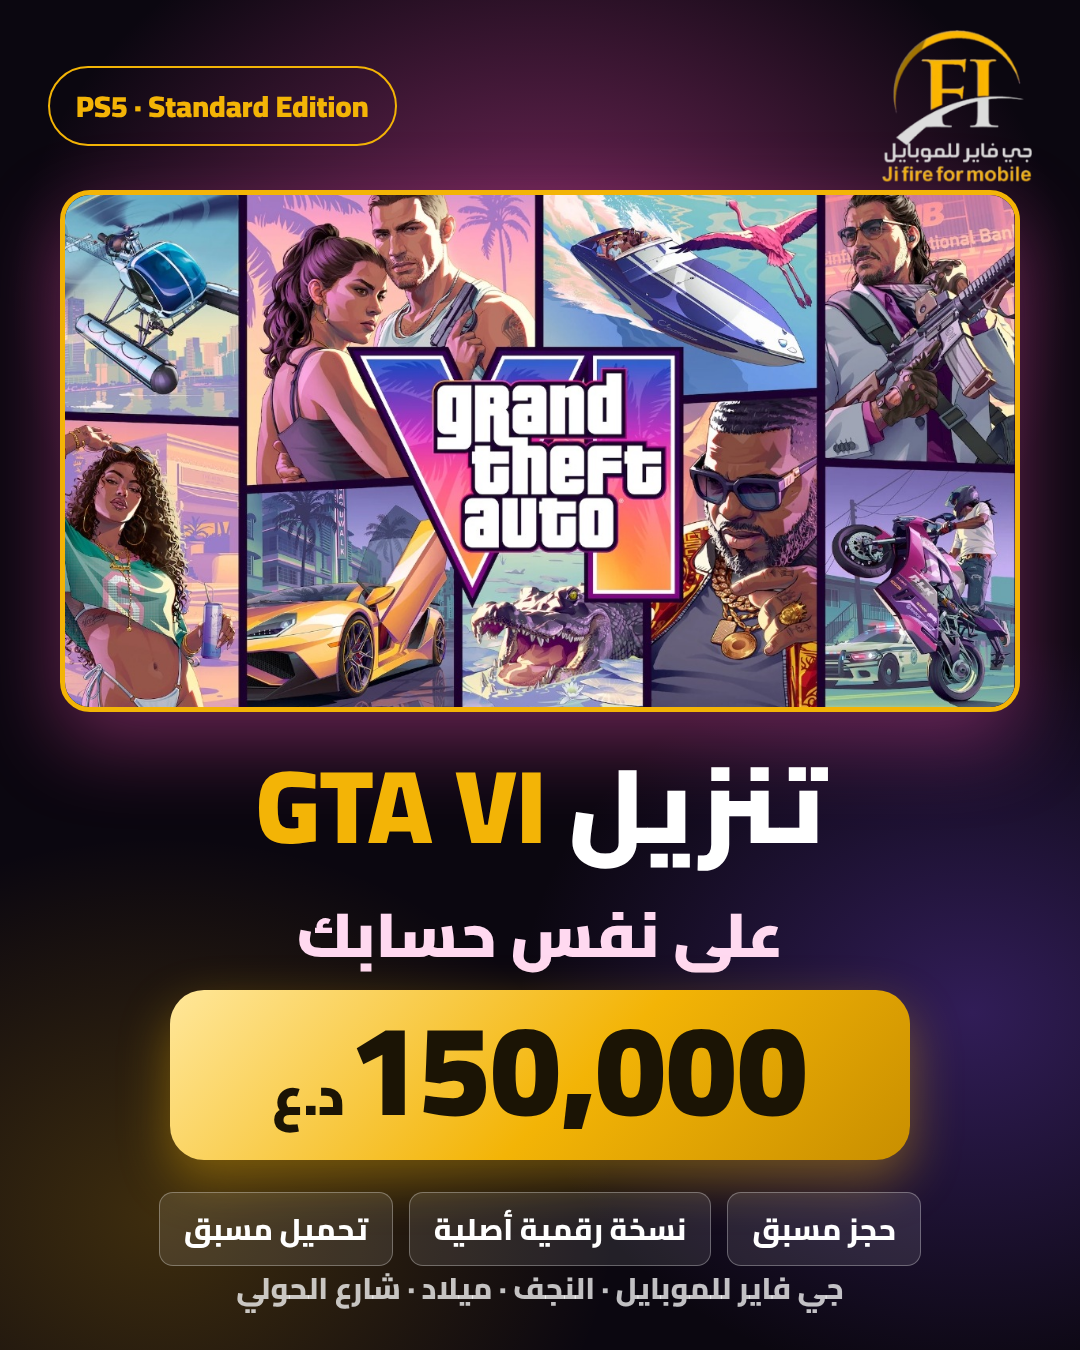
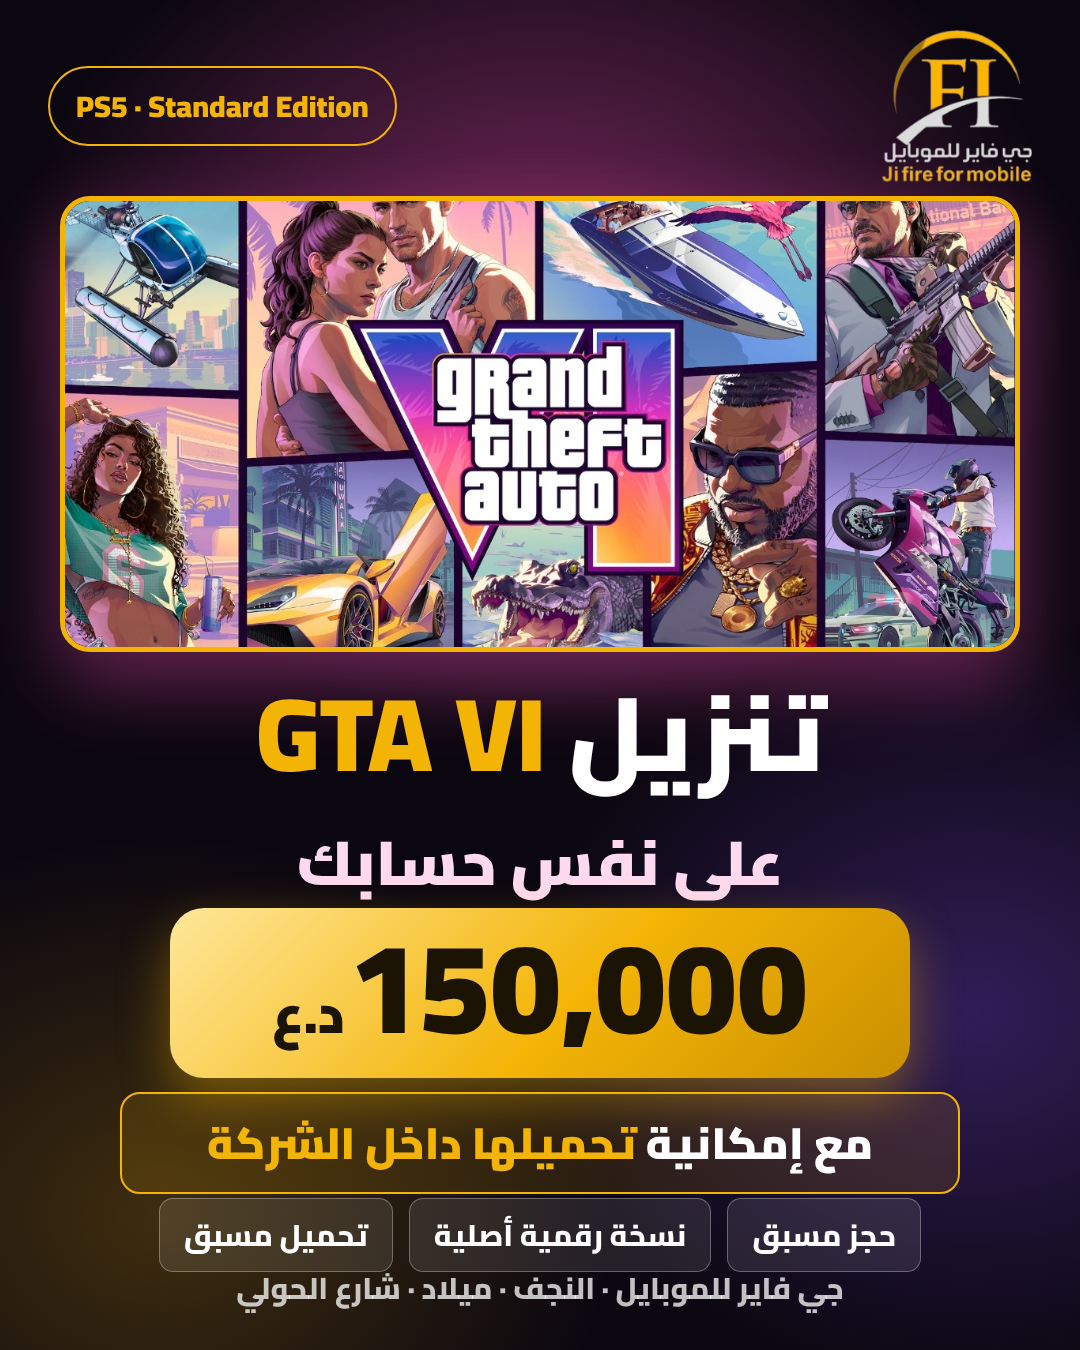
GTA VI post: add in-shop download line
Claude-Session: https://claude.ai/code/session_0144PHt837SWPxcPTGPkzuRV

diff --git a/design/banner/gta.html b/design/banner/gta.html
@@ -6,14 +6,15 @@ body{width:1080px;height:1350px;font-family:Cairo;background:#0b0710;color:#fff;
 .bg{position:absolute;inset:0;background:radial-gradient(70% 45% at 50% 22%,rgba(214,70,160,.55),transparent 70%),radial-gradient(60% 40% at 15% 90%,rgba(243,180,6,.22),transparent 70%),radial-gradient(60% 40% at 90% 75%,rgba(120,70,220,.35),transparent 70%)}
 .logo{position:absolute;top:30px;right:48px;width:150px}
 .tag{position:absolute;top:66px;left:48px;padding:10px 26px;border-radius:999px;border:2px solid #F3B406;color:#F3B406;font-weight:900;font-size:30px;direction:ltr}
-.art{position:absolute;top:190px;left:60px;width:960px;height:522px;border-radius:30px;overflow:hidden;border:5px solid #F3B406;box-shadow:0 30px 80px rgba(214,70,160,.45)}
+.art{position:absolute;top:196px;left:60px;width:960px;height:456px;border-radius:30px;overflow:hidden;border:5px solid #F3B406;box-shadow:0 30px 80px rgba(214,70,160,.45)}
 .art img{width:100%;height:100%;object-fit:cover}
-.t1{position:absolute;top:748px;left:0;right:0;text-align:center;font-weight:900;font-size:104px;line-height:1.1}
+.t1{position:absolute;top:676px;left:0;right:0;text-align:center;font-weight:900;font-size:104px;line-height:1.1}
 .t1 b{color:#F3B406;direction:ltr;unicode-bidi:isolate;display:inline-block}
-.t2{position:absolute;top:876px;left:0;right:0;text-align:center;font-weight:900;font-size:62px;color:#ffd9f0}
-.price{position:absolute;top:990px;left:170px;right:170px;padding:14px 0;border-radius:34px;background:linear-gradient(135deg,#FFE79A,#F3B406 55%,#C98F00);text-align:center;color:#1b1405;font-weight:900;box-shadow:0 20px 50px rgba(243,180,6,.4)}
+.t2{position:absolute;top:804px;left:0;right:0;text-align:center;font-weight:900;font-size:62px;color:#ffd9f0}
+.price{position:absolute;top:908px;left:170px;right:170px;padding:14px 0;border-radius:34px;background:linear-gradient(135deg,#FFE79A,#F3B406 55%,#C98F00);text-align:center;color:#1b1405;font-weight:900;box-shadow:0 20px 50px rgba(243,180,6,.4)}
 .price .n{font-size:128px;line-height:1;direction:ltr;unicode-bidi:isolate;display:inline-block}.price .c{font-size:54px}
-.chips{position:absolute;top:1192px;left:0;right:0;display:flex;justify-content:center;gap:16px}
+.strip{position:absolute;top:1092px;left:120px;right:120px;padding:8px 0;border-radius:20px;border:2.5px solid #F3B406;background:rgba(243,180,6,.12);text-align:center;font-weight:900;font-size:44px;color:#fff}.strip b{color:#F3B406}
+.chips{position:absolute;top:1198px;left:0;right:0;display:flex;justify-content:center;gap:16px}
 .chips span{padding:8px 24px;border-radius:14px;background:rgba(255,255,255,.1);border:1.5px solid rgba(255,255,255,.3);font-weight:800;font-size:30px}
 .foot{position:absolute;bottom:34px;left:0;right:0;text-align:center;font-weight:800;font-size:30px;color:rgba(255,255,255,.75)}
 </style></head><body><div class="bg"></div>
@@ -22,6 +23,7 @@ body{width:1080px;height:1350px;font-family:Cairo;background:#0b0710;color:#fff;
 <div class="t1">تنزيل <b>GTA VI</b></div>
 <div class="t2">على نفس حسابك</div>
 <div class="price"><span class="n">150,000</span> <span class="c">د.ع</span></div>
+<div class="strip">مع إمكانية <b>تحميلها داخل الشركة</b></div>
 <div class="chips"><span>حجز مسبق</span><span>نسخة رقمية أصلية</span><span>تحميل مسبق</span></div>
 <div class="foot">جي فاير للموبايل · النجف · ميلاد · شارع الحولي</div>
 </body></html>
